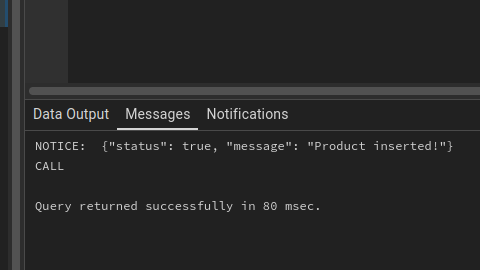
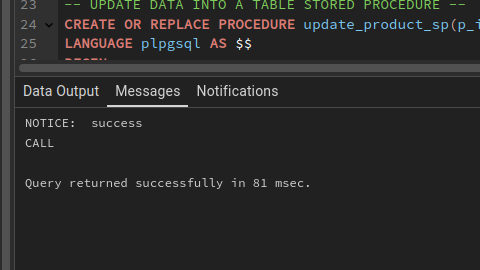
added a sql query tool file in the directory for postgres

diff --git a/README.md b/README.md
@@ -1680,11 +1680,11 @@ BEGIN
     INSERT INTO product (name, price, inventory) VALUES (p_name, p_price, inventory);
     
     -- Return success message
-    RAISE NOTICE '{"status": true, "message": "Product inserted!"}';
+    RAISE NOTICE 'success';
 EXCEPTION
     WHEN OTHERS THEN
         -- Catch any error and return failure message
-        RAISE NOTICE '{"status": false, "message": "%"}', SQLERRM;
+        RAISE NOTICE '%', SQLERRM;
 END;
 $$;
 ```
